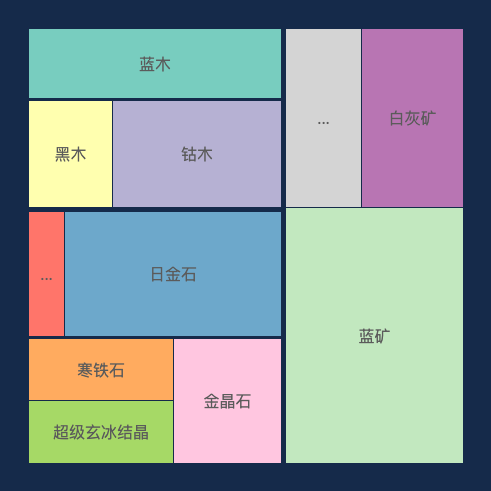
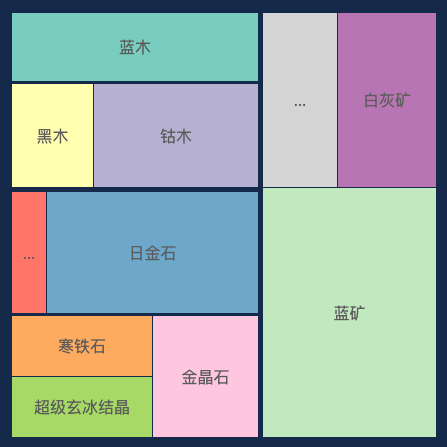
feat: 图形优化

diff --git a/11.矩形树状图.html b/11.矩形树状图.html
@@ -66,9 +66,9 @@
 			]
 		}
 
-		var width = 500
-		var height = 500
-		var margin = 30
+		var width = 450
+		var height = 450
+		var margin = 10
 
 		/**
 		 * 添加画布
